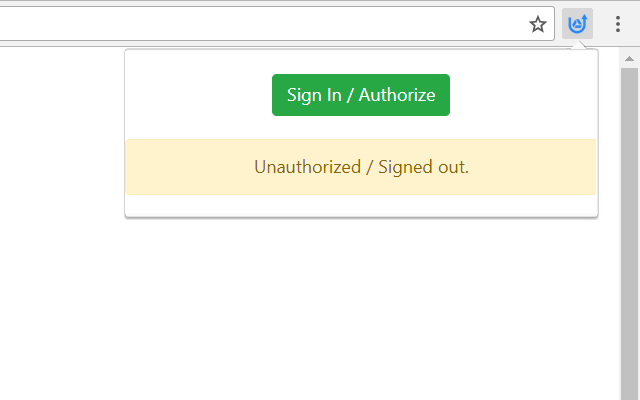
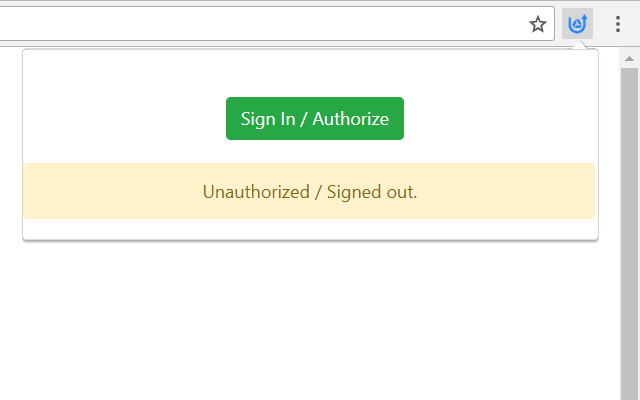
0.2.1 - Can select month. Fix backup status bug.

Changed region(s): [[0.0312, 0.18, 0.9375, 0.63], [0.0312, 0.12, 0.1875, 0.15]]

diff --git a/dist/js/popup.js b/dist/js/popup.js
@@ -1,1 +1,1 @@
-"use strict";function handleClientLoad(){gapi.load("client:auth2",initClient)}function initClient(){null==gapi.auth.getToken()&&(signin(),signinStatusListener()),window.listen=setInterval(signinStatusListener,600)}function signin(){chrome.identity.getAuthToken({interactive:!0},function(e){null!=e&&(gapi.auth.setToken({access_token:e}),gapi.client.load("drive","v3"))})}function signout(){if(null!=gapi.auth.getToken()){var e=new XMLHttpRequest;e.open("GET","https://accounts.google.com/o/oauth2/revoke?token="+gapi.auth.getToken().access_token),e.send();var t=gapi.auth.getToken();chrome.identity.removeCachedAuthToken({token:t.access_token}),gapi.auth.setToken(null)}}function signinStatusListener(){null!=gapi.auth.getToken()?($("#auth-button").html("Sign Out"),$("#auth-button").css("display","inline-block"),$("#auth-button").removeClass("btn-success"),$("#auth-button").addClass("btn btn-danger"),$("#backup-button").css("display","inline-block"),$("#backup-button").className="",$("#backup-button").addClass("btn btn-primary"),$("#signin-status").html("Authorized / Signed in."),$("#signin-status").removeClass("alert-warning"),$("#signin-status").addClass("alert alert-info")):($("#auth-button").html("Sign In / Authorize"),$("#auth-button").css("display","inline-block"),$("#auth-button").removeClass("btn-danger"),$("#auth-button").addClass("btn btn-success"),$("#backup-button").css("display","none"),$("#signin-status").html("Unauthorized / Signed out."),$("#signin-status").removeClass("alert-info"),$("#signin-status").addClass("alert alert-warning"),$("#backup-status").css("display","none"))}var popupMod=angular.module("UHistoryPopup",[]);popupMod.config(["$compileProvider",function(e){e.aHrefSanitizationWhitelist(/^\s*(https?|ftp|file|chrome-extension):/)}]),popupMod.controller("PopupCtrl",["$scope","$window","$filter","$interval",function(e,t,n,a){e.authButtonHandler=function(){null==gapi.auth.getToken()?signin():signout()},e.backupButtonHandler=function(){e.checker(e.backupHelper)},e.checker=function(t){var n=new Date,a="UHB"+n.getFullYear()+n.getMonth()+".csv";gapi.client.drive.files.list({q:"trashed = false and name = '"+a+"'",fields:"nextPageToken, files(id, name)"}).then(function(n){var s=n.result.files;return angular.element($("#backup-status")).css("display","block"),s&&s.length>0?(angular.element($("#backup-status")).html("Backuped: "+a),angular.element($("#backup-status")).removeClass("alert-secondary alert-danger"),angular.element($("#backup-status")).addClass("alert alert-success"),!0):!!t&&(angular.element($("#backup-status")).html("Backuping ..."),angular.element($("#backup-status")).removeClass("alert-danger alert-success"),angular.element($("#backup-status")).addClass("alert alert-secondary"),t(),setTimeout(e.progressChecker,6e3),!1)})},e.progressChecker=function(){e.checker()||(angular.element($("#backup-status")).html("Backup failed!"),angular.element($("#backup-status")).removeClass("alert-secondary alert-success"),angular.element($("#backup-status")).addClass("alert alert-danger"))},e.backupHelper=function(){gapi.client.drive.files.list({q:"mimeType = 'application/vnd.google-apps.folder' and name = 'UHistoryBackup'",fields:"nextPageToken, files(id, name)"}).then(function(t){var n=t.result.files;if(n&&n.length>0)e.historyReader(n[0].id,e.saveToFolder);else{var a={name:"UHistoryBackup",mimeType:"application/vnd.google-apps.folder"};gapi.client.drive.files.create({resource:a}).then(function(t){switch(t.status){case 200:var n=t.result;e.historyReader(n.id,e.saveToFolder);break;default:console.log("Error creating the folder, "+t)}})}})},e.saveToFolder=function(e,t,n){const a="\r\n--(/= _ =)/~\r\n";var s=new Date,i="UHB"+s.getFullYear()+s.getMonth()+".csv",o=new FileReader;o.readAsBinaryString(e),o.onload=function(s){var r=e.type,l={name:i,mimeType:r,parents:[t]},u=btoa(o.result),c=a+"Content-Type: application/json\r\n\r\n"+JSON.stringify(l)+a+"Content-Type: "+r+"\r\nContent-Transfer-Encoding: base64\r\n\r\n"+u+"\r\n--(/= _ =)/~--",d=gapi.client.request({path:"/upload/drive/v3/files",method:"POST",params:{uploadType:"multipart"},headers:{"Content-Type":'multipart/mixed; boundary="(/= _ =)/~"'},body:c});n||(n=function(e){console.log(e)}),d.execute(n)}},e.historyReader=function(n,a){var s=new Date,i=e.getLastMonthPeriod(s);chrome.history.search({text:"",maxResults:9999999,startTime:i[0].getTime(),endTime:i[1].getTime()},function(s){t.res=s;var i=Object.keys(s[0]);e.append(i.join(","));for(var o,r=0;r<s.length;r++){o="";for(var l=0;l<i.length;l++)o+=JSON.stringify(s[r][i[l]]),l!==i.length-1&&(o+=",");e.append("\n"+o)}var u=new Blob([data.innerText],{type:"application/octet-stream"});a(u,n)})},e.append=function(e){t.data.appendChild(document.createTextNode(e))},document.addEventListener("DOMContentLoaded",function(){t.data=document.getElementById("data")}),e.getLastMonthPeriod=function(e){var t=new Array,n=new Date(e.getTime());n.setMonth(n.getMonth()-1),n.setDate(1),n.setHours(0),n.setMinutes(0),n.setSeconds(0),n.setMilliseconds(0);var a=new Date(n.getTime());return a.setMonth(a.getMonth()+1),t.push(new Date(n.getTime())),t.push(new Date(a.getTime())),t}}]);
+"use strict";function handleClientLoad(){gapi.load("client:auth2",initClient)}function initClient(){null==gapi.auth.getToken()&&(signin(),signinStatusListener()),window.listen=setInterval(signinStatusListener,600)}function signin(){chrome.identity.getAuthToken({interactive:!0},function(e){null!=e&&(gapi.auth.setToken({access_token:e}),gapi.client.load("drive","v3"))})}function signout(){if(null!=gapi.auth.getToken()){var e=new XMLHttpRequest;e.open("GET","https://accounts.google.com/o/oauth2/revoke?token="+gapi.auth.getToken().access_token),e.send();var t=gapi.auth.getToken();chrome.identity.removeCachedAuthToken({token:t.access_token}),gapi.auth.setToken(null)}}function signinStatusListener(){var e=new Date;e.setMonth(e.getMonth()-1);var t=e.getMonth();e.setMonth(t-1);var n=e.getMonth();e.setMonth(n-1);var a=e.getMonth();null!=gapi.auth.getToken()?($("#auth-button").html("Sign Out"),$("#auth-button").css("display","inline-block"),$("#auth-button").removeClass("btn-success"),$("#auth-button").addClass("btn btn-danger"),$("#backup-label").css("display","inline-block"),$(".btn-group").css("display","inline-block"),$("#backup-button1").html(monthNames[t]),$("#backup-button2").html(monthNames[n]),$("#backup-button3").html(monthNames[a]),$("#signin-status").html("Authorized / Signed in."),$("#signin-status").removeClass("alert-warning"),$("#signin-status").addClass("alert alert-info")):($("#auth-button").html("Sign In / Authorize"),$("#auth-button").css("display","inline-block"),$("#auth-button").removeClass("btn-danger"),$("#auth-button").addClass("btn btn-success"),$("#backup-label").css("display","none"),$(".btn-group").css("display","none"),$("#signin-status").html("Unauthorized / Signed out."),$("#signin-status").removeClass("alert-info"),$("#signin-status").addClass("alert alert-warning"),$("#backup-status").css("display","none"))}var popupMod=angular.module("UHistoryPopup",[]);popupMod.config(["$compileProvider",function(e){e.aHrefSanitizationWhitelist(/^\s*(https?|ftp|file|chrome-extension):/)}]),popupMod.controller("PopupCtrl",["$scope","$window","$filter","$interval",function(e,t,n,a){e.authButtonHandler=function(){null==gapi.auth.getToken()?signin():signout()},e.backupButton1Handler=function(){t.monthdiff=1,e.checker(e.backupHelper)},e.backupButton2Handler=function(){t.monthdiff=2,e.checker(e.backupHelper)},e.backupButton3Handler=function(){t.monthdiff=3,e.checker(e.backupHelper)},e.checker=function(e){var n=new Date,a="UHB"+n.getFullYear()+monthNames[n.getMonth()-t.monthdiff]+".csv";gapi.client.drive.files.list({q:"trashed = false and name = '"+a+"'",fields:"nextPageToken, files(id, name)"}).then(function(t){var n=t.result.files;return angular.element($("#backup-status")).css("display","block"),n&&n.length>0?(angular.element($("#backup-status")).html("Already Backuped: "+a),angular.element($("#backup-status")).removeClass("alert-secondary alert-danger"),angular.element($("#backup-status")).addClass("alert alert-success"),!0):!!e&&(angular.element($("#backup-status")).html("Backuping ..."),angular.element($("#backup-status")).removeClass("alert-danger alert-success"),angular.element($("#backup-status")).addClass("alert alert-secondary"),e(),!1)})},e.backupHelper=function(){gapi.client.drive.files.list({q:"mimeType = 'application/vnd.google-apps.folder' and name = 'UHistoryBackup'",fields:"nextPageToken, files(id, name)"}).then(function(t){var n=t.result.files;if(n&&n.length>0)e.historyReader(n[0].id,e.saveToFolder);else{var a={name:"UHistoryBackup",mimeType:"application/vnd.google-apps.folder"};gapi.client.drive.files.create({resource:a}).then(function(t){switch(t.status){case 200:var n=t.result;e.historyReader(n.id,e.saveToFolder);break;default:console.log("Error creating the folder, "+t)}})}})},e.saveToFolder=function(e,n,a){const s="\r\n--(/= _ =)/~\r\n";var o=new Date,i="UHB"+o.getFullYear()+monthNames[o.getMonth()-t.monthdiff]+".csv",r=new FileReader;r.readAsBinaryString(e),r.onload=function(t){var o=e.type,l={name:i,mimeType:o,parents:[n]},u=btoa(r.result),c=s+"Content-Type: application/json\r\n\r\n"+JSON.stringify(l)+s+"Content-Type: "+o+"\r\nContent-Transfer-Encoding: base64\r\n\r\n"+u+"\r\n--(/= _ =)/~--",d=gapi.client.request({path:"/upload/drive/v3/files",method:"POST",params:{uploadType:"multipart"},headers:{"Content-Type":'multipart/mixed; boundary="(/= _ =)/~"'},body:c});a||(a=function(e){console.log(e)}),d.execute(a),angular.element($("#backup-status")).html("Backup OK: "+i),angular.element($("#backup-status")).removeClass("alert-secondary alert-danger"),angular.element($("#backup-status")).addClass("alert alert-success")}},e.historyReader=function(n,a){var s=new Date,o=e.getLastMonthPeriod(s);chrome.history.search({text:"",maxResults:9999999,startTime:o[0].getTime(),endTime:o[1].getTime()},function(s){if(t.res=s,0==s.length)return angular.element($("#backup-status")).html("Backup failed! No history found in this month!"),angular.element($("#backup-status")).removeClass("alert-secondary alert-success"),angular.element($("#backup-status")).addClass("alert alert-danger"),void(t.errinfo=void 0);var o=Object.keys(s[0]);e.append(o.join(","));for(var i,r=0;r<s.length;r++){i="";for(var l=0;l<o.length;l++)i+=JSON.stringify(s[r][o[l]]),l!==o.length-1&&(i+=",");e.append("\n"+i)}var u=new Blob([data.innerText],{type:"application/octet-stream"});a(u,n)})},e.append=function(e){t.data.appendChild(document.createTextNode(e))},document.addEventListener("DOMContentLoaded",function(){t.data=document.getElementById("data")}),e.getLastMonthPeriod=function(e){var n=new Array,a=new Date(e.getTime());a.setMonth(a.getMonth()-t.monthdiff),a.setDate(1),a.setHours(0),a.setMinutes(0),a.setSeconds(0),a.setMilliseconds(0);var s=new Date(a.getTime());return s.setMonth(s.getMonth()+1),n.push(new Date(a.getTime())),n.push(new Date(s.getTime())),n}}]);var monthNames=new Array("Jan","Feb","Mar","Apr","May","Jun","Jul","Aug","Sep","Oct","Nov","Dec");

diff --git a/src/js/popup.js b/src/js/popup.js
@@ -6,7 +6,11 @@ popupMod.config(function ($compileProvider) {
   $compileProvider.aHrefSanitizationWhitelist (/^\s*(https?|ftp|file|chrome-extension):/);
 });
 
-popupMod.controller('PopupCtrl', ['$scope', '$window', '$filter', '$interval', function PopupCtrl($scope, $window, $filter, $interval) {
+popupMod.controller('PopupCtrl', ['$scope', '$window', '$filter', '$interval', 
+    function PopupCtrl($scope, $window, $filter, $interval) {
+  // $window.monthNames = new Array("Jan", "Feb", "Mar",
+  //       "Apr", "May", "Jun", "Jul", "Aug", "Sep",
+  //       "Oct", "Nov", "Dec");
   $scope.authButtonHandler = function () {
     if (gapi.auth.getToken() == null) {
       signin();
@@ -15,7 +19,18 @@ popupMod.controller('PopupCtrl', ['$scope', '$window', '$filter', '$interval', f
     }
   }
 
-  $scope.backupButtonHandler = function () {
+  $scope.backupButton1Handler = function () {
+    $window.monthdiff = 1;
+    $scope.checker($scope.backupHelper);
+  }
+
+  $scope.backupButton2Handler = function () {
+    $window.monthdiff = 2;
+    $scope.checker($scope.backupHelper);
+  }
+
+  $scope.backupButton3Handler = function () {
+    $window.monthdiff = 3;
     $scope.checker($scope.backupHelper);
   }
 
@@ -23,7 +38,8 @@ popupMod.controller('PopupCtrl', ['$scope', '$window', '$filter', '$interval', f
   $scope.checker = function (callback) {
     var currentTime = new Date();
     var fileName = "UHB" +
-      currentTime.getFullYear() + currentTime.getMonth() + ".csv";
+      currentTime.getFullYear() +
+        monthNames[currentTime.getMonth() - $window.monthdiff] + ".csv";
 
     gapi.client.drive.files.list({
       'q': "trashed = false and name = '" + fileName + "'",
@@ -32,7 +48,7 @@ popupMod.controller('PopupCtrl', ['$scope', '$window', '$filter', '$interval', f
       var files = response.result.files;
       angular.element($('#backup-status')).css('display', 'block');
       if (files && files.length > 0) {
-        angular.element($('#backup-status')).html("Backuped: " + fileName);
+        angular.element($('#backup-status')).html("Already Backuped: " + fileName);
         angular.element($('#backup-status')).removeClass("alert-secondary alert-danger");
         angular.element($('#backup-status')).addClass("alert alert-success");
         return true;
@@ -44,18 +60,9 @@ popupMod.controller('PopupCtrl', ['$scope', '$window', '$filter', '$interval', f
         angular.element($('#backup-status')).removeClass("alert-danger alert-success");
         angular.element($('#backup-status')).addClass("alert alert-secondary");
         callback();
-        setTimeout($scope.progressChecker, 6000);
         return false;
       }
     });
-  }
-
-  $scope.progressChecker = function () {
-    if (!$scope.checker()) {
-      angular.element($('#backup-status')).html('Backup failed!');
-      angular.element($('#backup-status')).removeClass("alert-secondary alert-success");
-      angular.element($('#backup-status')).addClass("alert alert-danger");
-    }
   }
 
   $scope.backupHelper = function () {
@@ -95,7 +102,8 @@ popupMod.controller('PopupCtrl', ['$scope', '$window', '$filter', '$interval', f
     const close_delim = "\r\n--" + boundary + "--";
 
     var currentTime = new Date();
-    var fileName = "UHB" + currentTime.getFullYear() + currentTime.getMonth() + ".csv";
+    var fileName = "UHB" + currentTime.getFullYear() +
+      monthNames[currentTime.getMonth() - $window.monthdiff] + ".csv";
 
     var reader = new FileReader();
     reader.readAsBinaryString(fileData);
@@ -133,6 +141,9 @@ popupMod.controller('PopupCtrl', ['$scope', '$window', '$filter', '$interval', f
         };
       }
       request.execute(callback);
+      angular.element($('#backup-status')).html("Backup OK: " + fileName);
+      angular.element($('#backup-status')).removeClass("alert-secondary alert-danger");
+      angular.element($('#backup-status')).addClass("alert alert-success");
     }
   }
 
@@ -146,6 +157,13 @@ popupMod.controller('PopupCtrl', ['$scope', '$window', '$filter', '$interval', f
       'endTime': timeStartEnd[1].getTime()
     }, function (res) {
       $window.res = res;
+      if (res.length == 0) {
+        angular.element($('#backup-status')).html('Backup failed! No history found in this month!');
+        angular.element($('#backup-status')).removeClass("alert-secondary alert-success");
+        angular.element($('#backup-status')).addClass("alert alert-danger");
+        $window.errinfo = undefined;
+        return;
+      }
 
       // header row
       var keys = Object.keys(res[0]);
@@ -177,7 +195,7 @@ popupMod.controller('PopupCtrl', ['$scope', '$window', '$filter', '$interval', f
   $scope.getLastMonthPeriod = function (time) {
     var arr = new Array();
     var start =  new Date(time.getTime());
-    start.setMonth(start.getMonth() - 1);
+    start.setMonth(start.getMonth() - $window.monthdiff);
     start.setDate(1);
     start.setHours(0);
     start.setMinutes(0);
@@ -190,6 +208,10 @@ popupMod.controller('PopupCtrl', ['$scope', '$window', '$filter', '$interval', f
     return arr;
   }
 }]);
+
+var monthNames = new Array("Jan", "Feb", "Mar",
+  "Apr", "May", "Jun", "Jul", "Aug", "Sep",
+  "Oct", "Nov", "Dec");
 
 function handleClientLoad() {
   // Load the API's client and auth2 modules.
@@ -237,14 +259,23 @@ function signout() {
 }
 
 function signinStatusListener() {
+  var time = new Date();
+  time.setMonth(time.getMonth() - 1);
+  var monthl = time.getMonth();
+  time.setMonth(monthl - 1);
+  var monthll = time.getMonth();
+  time.setMonth(monthll - 1);
+  var monthlll = time.getMonth();
   if (gapi.auth.getToken() != null) {
     $('#auth-button').html('Sign Out');
     $('#auth-button').css('display', 'inline-block');
     $('#auth-button').removeClass("btn-success");
     $('#auth-button').addClass("btn btn-danger");
-    $('#backup-button').css('display', 'inline-block');
-    $('#backup-button').className = '';
-    $('#backup-button').addClass("btn btn-primary");
+    $('#backup-label').css('display', 'inline-block');
+    $('.btn-group').css('display', 'inline-block');
+    $('#backup-button1').html(monthNames[monthl]);
+    $('#backup-button2').html(monthNames[monthll]);
+    $('#backup-button3').html(monthNames[monthlll]);
     $('#signin-status').html('Authorized / Signed in.');
     $('#signin-status').removeClass("alert-warning");
     $('#signin-status').addClass("alert alert-info");
@@ -253,7 +284,8 @@ function signinStatusListener() {
     $('#auth-button').css('display', 'inline-block');
     $('#auth-button').removeClass("btn-danger");
     $('#auth-button').addClass("btn btn-success");
-    $('#backup-button').css('display', 'none');
+    $('#backup-label').css('display', 'none');
+    $('.btn-group').css('display', 'none');
     $('#signin-status').html('Unauthorized / Signed out.');
     $('#signin-status').removeClass("alert-info");
     $('#signin-status').addClass("alert alert-warning");

diff --git a/dist/js/background.js b/dist/js/background.js
@@ -1,1 +1,1 @@
-"use strict";function handleClientLoad(){gapi.load("client:auth2")}var bgMod=angular.module("UHistoryBg",[]);bgMod.config(["$compileProvider",function(e){e.aHrefSanitizationWhitelist(/^\s*(https?|ftp|file|chrome-extension):/)}]),bgMod.controller("BgCtrl",["$scope","$window","$filter","$interval",function(e,t,n,i){e.firstAuth=i(function(){e.refreshToken()},1e3,1),e.autoAuth=i(function(){e.refreshToken()},18e5),e.refreshToken=function(){"undefined"!=typeof gapi&&chrome.identity.getAuthToken({interactive:!1},function(t){null!=t&&(gapi.auth.setToken({access_token:t}),gapi.client.load("drive","v3").then(function(){e.checker(e.backupHelper)}))})},e.checker=function(t){if("undefined"!=typeof gapi){var n=new Date,i="UHB"+n.getFullYear()+n.getMonth()+".csv";gapi.client.drive.files.list({q:"trashed = false and name = '"+i+"'",fields:"nextPageToken, files(id, name)"}).then(function(n){var i=n.result.files;return!!(i&&i.length>0)||!!t&&(t(),setTimeout(e.progressChecker,6e3),!1)})}},e.progressChecker=function(){e.checker()},e.backupHelper=function(){gapi.client.drive.files.list({q:"mimeType = 'application/vnd.google-apps.folder' and name = 'UHistoryBackup'",fields:"nextPageToken, files(id, name)"}).then(function(t){var n=t.result.files;if(n&&n.length>0)e.historyReader(n[0].id,e.saveToFolder);else{var i={name:"UHistoryBackup",mimeType:"application/vnd.google-apps.folder"};gapi.client.drive.files.create({resource:i}).then(function(t){switch(t.status){case 200:var n=t.result;e.historyReader(n.id,e.saveToFolder);break;default:console.log("Error creating the folder, "+t)}})}})},e.saveToFolder=function(e,t,n){const i="\r\n--(/= _ =)/~\r\n";var a=new Date,o="UHB"+a.getFullYear()+a.getMonth()+".csv",r=new FileReader;r.readAsBinaryString(e),r.onload=function(a){var s=e.type,l={name:o,mimeType:s,parents:[t]},c=btoa(r.result),d=i+"Content-Type: application/json\r\n\r\n"+JSON.stringify(l)+i+"Content-Type: "+s+"\r\nContent-Transfer-Encoding: base64\r\n\r\n"+c+"\r\n--(/= _ =)/~--",u=gapi.client.request({path:"/upload/drive/v3/files",method:"POST",params:{uploadType:"multipart"},headers:{"Content-Type":'multipart/mixed; boundary="(/= _ =)/~"'},body:d});n||(n=function(e){console.log(e)}),u.execute(n)}},e.historyReader=function(n,i){var a=new Date,o=e.getLastMonthPeriod(a);chrome.history.search({text:"",maxResults:9999999,startTime:o[0].getTime(),endTime:o[1].getTime()},function(a){t.res=a;var o=Object.keys(a[0]);e.append(o.join(","));for(var r,s=0;s<a.length;s++){r="";for(var l=0;l<o.length;l++)r+=JSON.stringify(a[s][o[l]]),l!==o.length-1&&(r+=",");e.append("\n"+r)}var c=new Blob([data.innerText],{type:"application/octet-stream"});i(c,n)})},e.append=function(e){t.data.appendChild(document.createTextNode(e))},document.addEventListener("DOMContentLoaded",function(){t.data=document.getElementById("data")}),e.getLastMonthPeriod=function(e){var t=new Array,n=new Date(e.getTime());n.setMonth(n.getMonth()-1),n.setDate(1),n.setHours(0),n.setMinutes(0),n.setSeconds(0),n.setMilliseconds(0);var i=new Date(n.getTime());return i.setMonth(i.getMonth()+1),t.push(new Date(n.getTime())),t.push(new Date(i.getTime())),t}}]);
+"use strict";function handleClientLoad(){gapi.load("client:auth2")}var bgMod=angular.module("UHistoryBg",[]);bgMod.config(["$compileProvider",function(e){e.aHrefSanitizationWhitelist(/^\s*(https?|ftp|file|chrome-extension):/)}]),bgMod.controller("BgCtrl",["$scope","$window","$filter","$interval",function(e,t,n,i){e.firstAuth=i(function(){e.refreshToken()},1e3,1),e.autoAuth=i(function(){e.refreshToken()},18e5),e.refreshToken=function(){"undefined"!=typeof gapi&&chrome.identity.getAuthToken({interactive:!1},function(t){null!=t&&(gapi.auth.setToken({access_token:t}),gapi.client.load("drive","v3").then(function(){e.checker(e.backupHelper)}))})},e.checker=function(e){if("undefined"!=typeof gapi){var t=new Date,n="UHB"+t.getFullYear()+t.getMonth()+".csv";gapi.client.drive.files.list({q:"trashed = false and name = '"+n+"'",fields:"nextPageToken, files(id, name)"}).then(function(t){var n=t.result.files;return!!(n&&n.length>0)||!!e&&(e(),!1)})}},e.backupHelper=function(){gapi.client.drive.files.list({q:"mimeType = 'application/vnd.google-apps.folder' and name = 'UHistoryBackup'",fields:"nextPageToken, files(id, name)"}).then(function(t){var n=t.result.files;if(n&&n.length>0)e.historyReader(n[0].id,e.saveToFolder);else{var i={name:"UHistoryBackup",mimeType:"application/vnd.google-apps.folder"};gapi.client.drive.files.create({resource:i}).then(function(t){switch(t.status){case 200:var n=t.result;e.historyReader(n.id,e.saveToFolder);break;default:console.log("Error creating the folder, "+t)}})}})},e.saveToFolder=function(e,t,n){const i="\r\n--(/= _ =)/~\r\n";var a=new Date,o="UHB"+a.getFullYear()+a.getMonth()+".csv",r=new FileReader;r.readAsBinaryString(e),r.onload=function(a){var s=e.type,l={name:o,mimeType:s,parents:[t]},d=btoa(r.result),c=i+"Content-Type: application/json\r\n\r\n"+JSON.stringify(l)+i+"Content-Type: "+s+"\r\nContent-Transfer-Encoding: base64\r\n\r\n"+d+"\r\n--(/= _ =)/~--",u=gapi.client.request({path:"/upload/drive/v3/files",method:"POST",params:{uploadType:"multipart"},headers:{"Content-Type":'multipart/mixed; boundary="(/= _ =)/~"'},body:c});n||(n=function(e){console.log(e)}),u.execute(n)}},e.historyReader=function(n,i){var a=new Date,o=e.getLastMonthPeriod(a);chrome.history.search({text:"",maxResults:9999999,startTime:o[0].getTime(),endTime:o[1].getTime()},function(a){t.res=a;var o=Object.keys(a[0]);e.append(o.join(","));for(var r,s=0;s<a.length;s++){r="";for(var l=0;l<o.length;l++)r+=JSON.stringify(a[s][o[l]]),l!==o.length-1&&(r+=",");e.append("\n"+r)}var d=new Blob([data.innerText],{type:"application/octet-stream"});i(d,n)})},e.append=function(e){t.data.appendChild(document.createTextNode(e))},document.addEventListener("DOMContentLoaded",function(){t.data=document.getElementById("data")}),e.getLastMonthPeriod=function(e){var t=new Array,n=new Date(e.getTime());n.setMonth(n.getMonth()-1),n.setDate(1),n.setHours(0),n.setMinutes(0),n.setSeconds(0),n.setMilliseconds(0);var i=new Date(n.getTime());return i.setMonth(i.getMonth()+1),t.push(new Date(n.getTime())),t.push(new Date(i.getTime())),t}}]);

diff --git a/dist/html/popup.html b/dist/html/popup.html
@@ -1,8 +1,9 @@
 <!DOCTYPE html><html><head><meta charset="utf-8"><title>Popup Page</title><link rel="stylesheet" href="../style/bootstrap.min.css"><style>body {
-        min-width: 420px;
+        min-width: 510px;
         margin-bottom: 0px;
       }
       div {
         margin-top: 20px;
         margin-bottom: 0px;
-      }</style><script src="../js/jquery.min.js"></script><script src="../js/angular.min.js"></script><script src="../js/popup.js"></script><script src="https://apis.google.com/js/api.js?onload=handleClientLoad"></script></head><body ng-app="UHistoryPopup" ng-csp="" style="text-align: center"><div ng-controller="PopupCtrl" id="content" align="center"><button type="button" ng-click="backupButtonHandler()" id="backup-button" style="display: none; margin-right: 50px">Backup Last Month History</button> <button type="button" ng-click="authButtonHandler()" id="auth-button" style="display: none">Authorize / Sign In</button></div><div id="signin-status" align="center"></div><div id="backup-status" align="center"></div><div id="data" style="display: none"></div></body></html>
+        text-align: center;
+      }</style><script src="../js/jquery.min.js"></script><script src="../js/angular.min.js"></script><script src="../js/popup.js"></script><script src="https://apis.google.com/js/api.js?onload=handleClientLoad"></script></head><body ng-app="UHistoryPopup" ng-csp="" style="text-align: center"><div ng-controller="PopupCtrl" id="content" align="center"><table align="center" style="width:90%"><tr><td><div id="backup-label" align="center" style="display: none">Backup for the month:</div></td><td><div class="btn-group" role="group" aria-label="Basic example" style="display: none"><button type="button" ng-click="backupButton1Handler()" id="backup-button1" class="btn btn-primary">Left</button> <button type="button" ng-click="backupButton2Handler()" id="backup-button2" class="btn btn-primary">Middle</button> <button type="button" ng-click="backupButton3Handler()" id="backup-button3" class="btn btn-primary" style="margin-right: 20px">Right</button></div></td><td><button type="button" ng-click="authButtonHandler()" id="auth-button" style="display: none; margin-top: 20px">Authorize / Sign In</button></td></tr></table></div><div id="signin-status" align="center"></div><div id="backup-status" align="center"></div><div id="data" style="display: none"></div></body></html>

diff --git a/src/html/popup.html b/src/html/popup.html
@@ -6,12 +6,13 @@
     <link rel="stylesheet" href="../style/bootstrap.min.css">
     <style>
       body {
-        min-width: 420px;
+        min-width: 510px;
         margin-bottom: 0px;
       }
       div {
         margin-top: 20px;
         margin-bottom: 0px;
+        text-align: center;
       }
     </style>
     <script src="../js/jquery.min.js"></script>
@@ -21,8 +22,19 @@
   </head>
   <body ng-app="UHistoryPopup" ng-csp="" style="text-align: center">
     <div ng-controller="PopupCtrl" id="content" align="center">
-      <button type="button" ng-click="backupButtonHandler()" id="backup-button" style="display: none; margin-right: 50px">Backup Last Month History</button>
-      <button type="button" ng-click="authButtonHandler()" id="auth-button" style="display: none">Authorize / Sign In</button>
+      <table align="center" style="width:90%">
+        <tr>
+          <td><div id="backup-label" align="center" style="display: none">Backup for the month: </div></td>
+          <td><div class="btn-group" role="group" aria-label="Basic example" style="display: none">
+            <button type="button" ng-click="backupButton1Handler()" id="backup-button1" class="btn btn-primary">Left</button>
+            <button type="button" ng-click="backupButton2Handler()" id="backup-button2" class="btn btn-primary">Middle</button>
+            <button type="button" ng-click="backupButton3Handler()" id="backup-button3" class="btn btn-primary" style="margin-right: 20px">Right</button>
+          </div></td>
+          <td><button type="button" ng-click="authButtonHandler()" 
+            id="auth-button" style="display: none; margin-top: 20px">Authorize / Sign In</button>
+          </td>
+        </tr>
+      </table>
     </div>
     <div id="signin-status" align="center"></div>
     <div id="backup-status" align="center"></div>

diff --git a/src/js/background.js b/src/js/background.js
@@ -56,16 +56,9 @@ bgMod.controller('BgCtrl', ['$scope', '$window', '$filter', '$interval', functio
         }
         //document.write("Backuping ...");
         callback();
-        setTimeout($scope.progressChecker, 6000);
         return false;
       }
     });
-  }
-
-  $scope.progressChecker = function () {
-    if (!$scope.checker()) {
-      //document.write("Backup failed!");
-    }
   }
 
   $scope.backupHelper = function () {

diff --git a/README.md b/README.md
@@ -8,9 +8,9 @@ U means Unlimited! Chrome only saves 90 days of history. Use this extension and 
 
 ### Features
 
-- Backup last month's browsing history to your Google Drive.
+- Backup selected month browsing history to your Google Drive.
 
-- Automatically backup in background once authorized.
+- Automatically backup last month history in background once authorized.
 
 - Only 1 computer's backup every month.
 
@@ -18,6 +18,8 @@ U means Unlimited! Chrome only saves 90 days of history. Use this extension and 
 
 
 ## Log
+
+- 171215 - Select month to backup. Fix backup status bug.
 
 - 171208 - Fix client id bug and others for chrome web store
 
